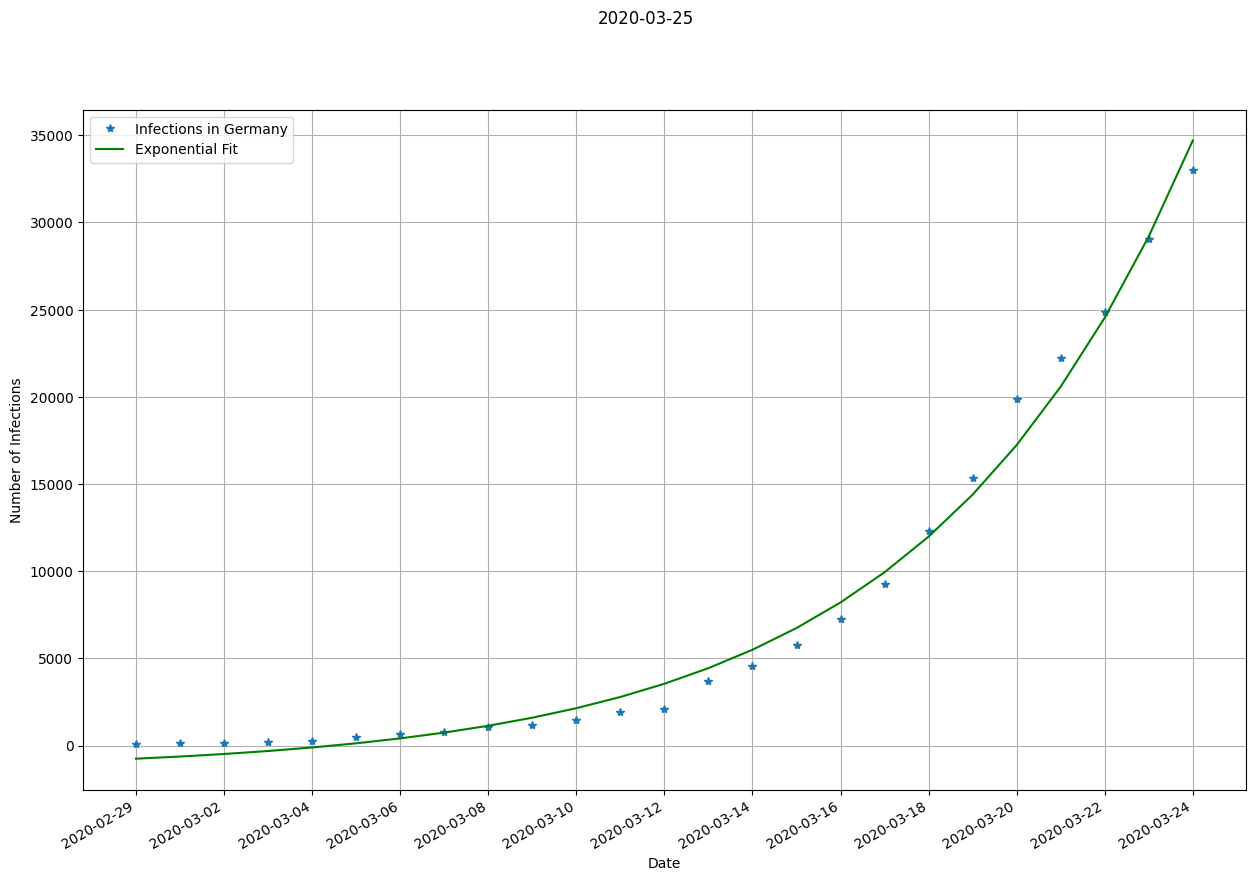
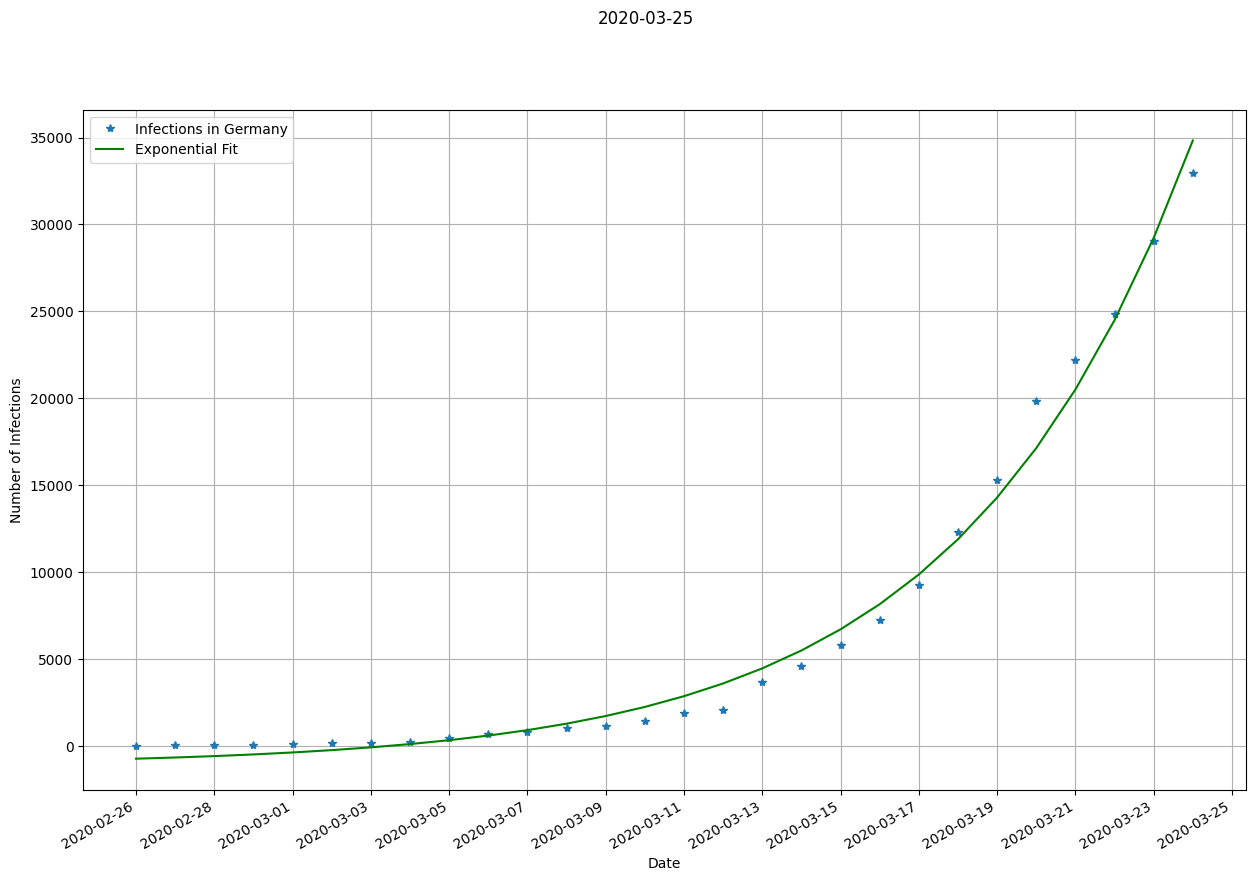
Auto Update

diff --git a/main.py b/main.py
@@ -37,7 +37,7 @@ def main():
     df = df.iloc[0]  # convert to pd.Series
 
     # start with first infections
-    df = df[df.values > 50]
+    df = df[df.values > 20]
 
     # parse to datetime
     df.index = pd.to_datetime(df.index, format='%m/%d/%y')
